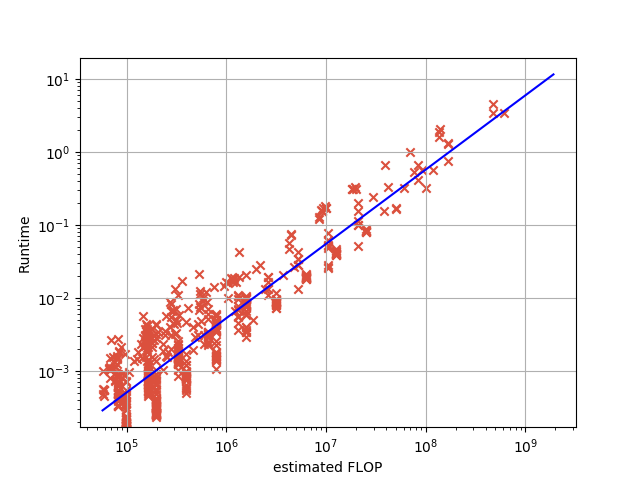
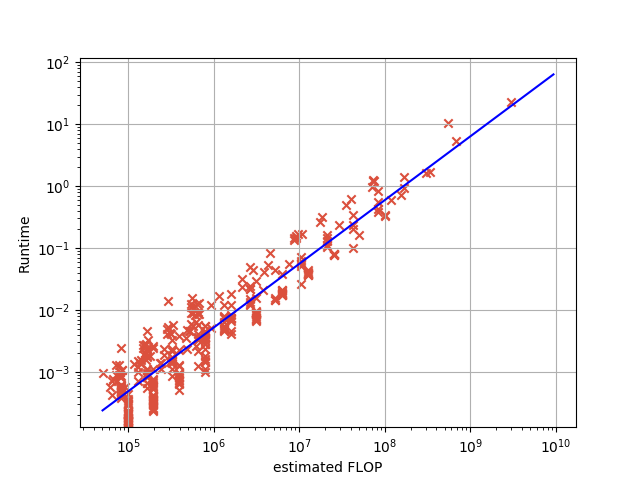
[jlse-results] for `[jlse-run] just want another figure`

diff --git a/run/automake/results/result.md b/run/automake/results/result.md
@@ -1,15 +1,15 @@
 ## Automake run result
 ### Performance summary:
 ===Results===
-Total time: 35.446
-Simulator fitted flops: 0.24741 G
-Matmul flops: 414.19 G
-Simulator optimality: 0.000597333645279433
+Total time: 60.594
+Simulator fitted flops: 0.28745 G
+Matmul flops: 511.87 G
+Simulator optimality: 0.0005615634849012753
 \n
 \n
 Backend used: mkl (contraction only)
 \n
 ### Performance plot:
-![](https://asset.cml.dev/de972b4890ad16ef8d2a0da324083fd7bed8a225)
+![](https://asset.cml.dev/19f9cd5cdf6920673891c0e807de4360b4528131)
 \n
-Run date: Fri Oct  9 12:21:40 UTC 2020
+Run date: Fri Oct  9 17:28:27 UTC 2020
